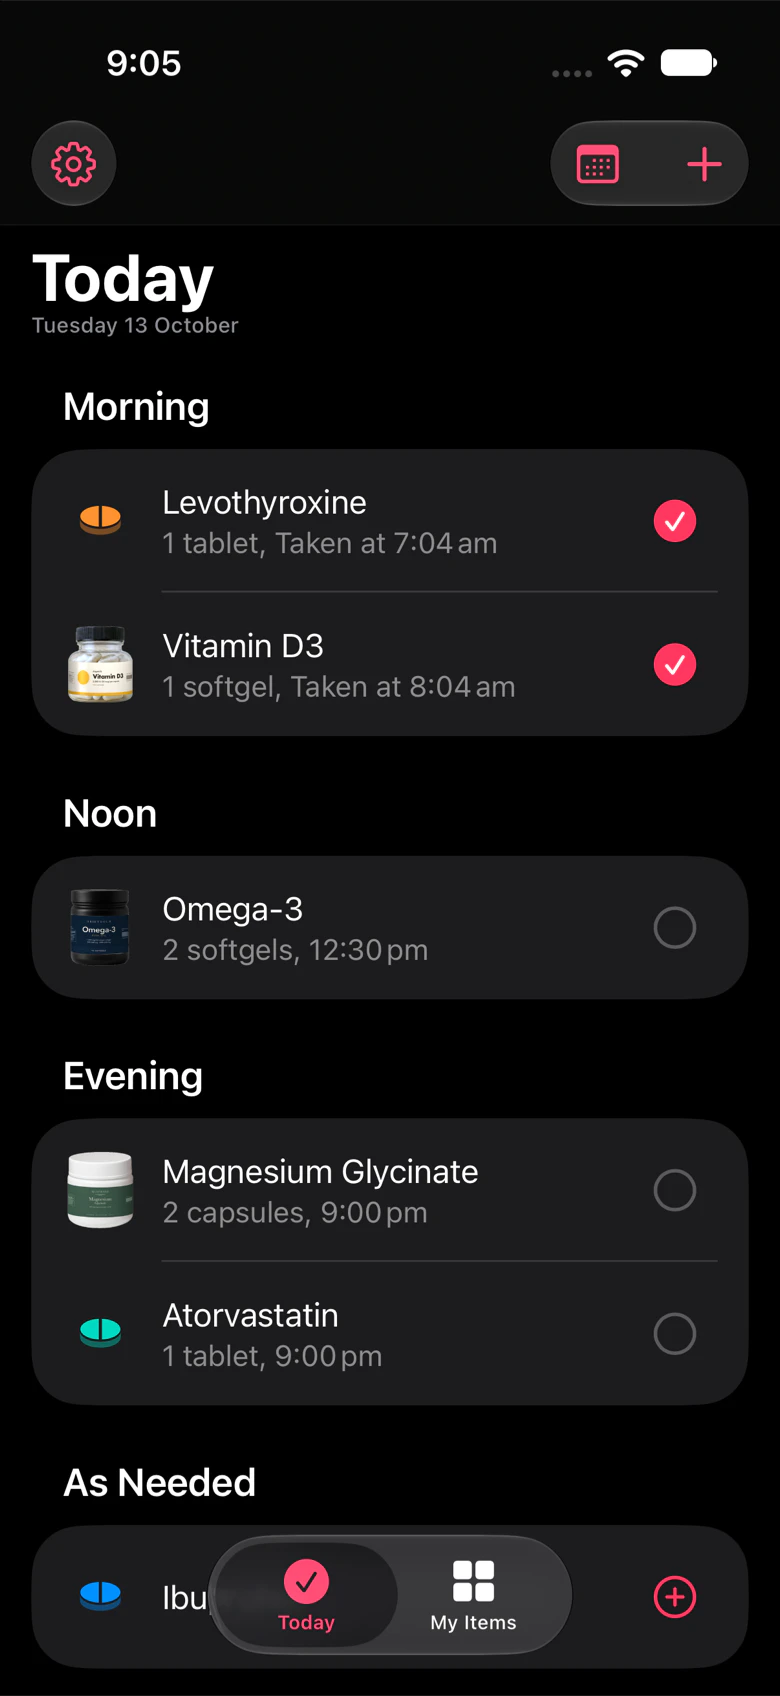
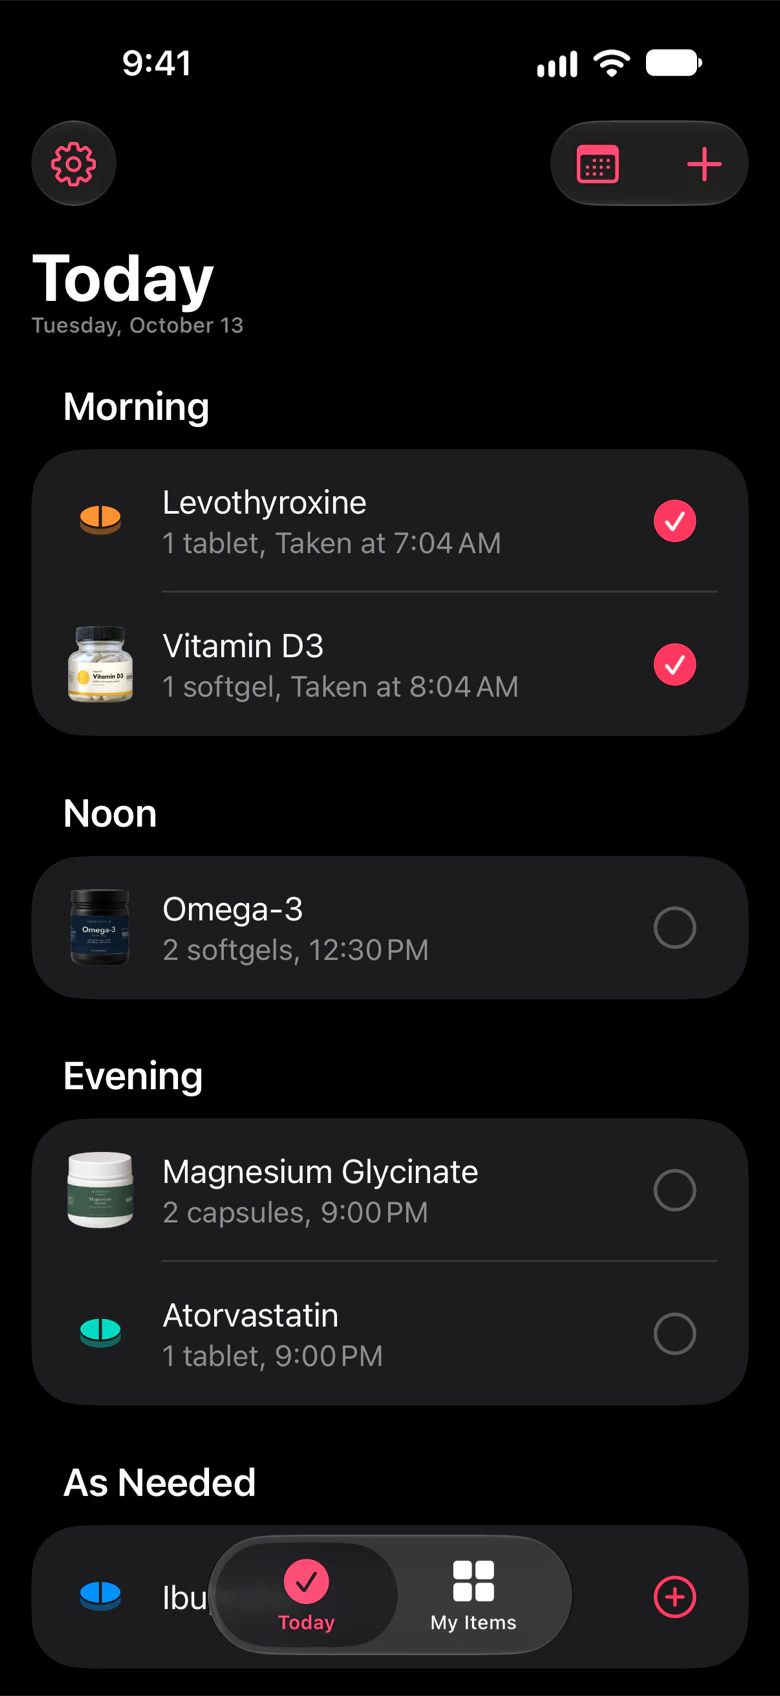
Use the dark captures of Today and History for the dark README pictures
The dark hero showed 9:05 and a day-month date, and the dark History card showed a light phone.
site/social.py now reads shots/today-dark-en.webp and shots/history-dark-en.webp.

diff --git a/site/social.py b/site/social.py
@@ -141,15 +141,17 @@ def card(code, size, extra="", dark=False):
 
 def feature(shot, dark):
     """A block of the home page on a card. The dark tokens are the dark block of style.css.
-    History has no capture in dark mode, so the dark card shows the light phone."""
+    The dark History card shows the capture of History in dark mode."""
     tokens = ""
+    block = build.stage("en", shot).replace('src="/', 'src="')
     if dark:
+        block = block.replace("shots/history-en.webp", "shots/history-dark-en.webp")
         css = (SITE / "style.css").read_text("utf-8")
         tokens = ":root {" + re.search(r"prefers-color-scheme: dark\) \{\s*:root \{(.*?)\}", css, re.S).group(1) + "}"
     return FEATURE.format(tokens=tokens, width=FEATURE_SIZE[0], height=FEATURE_SIZE[1],
                           background="#161618" if dark else "#F5F5F7",
                           ring="rgba(255, 255, 255, 0.08)" if dark else "transparent",
-                          block=build.stage("en", shot).replace('src="/', 'src="'))
+                          block=block)
 
 
 def main():

diff --git a/site/README.md b/site/README.md
@@ -130,7 +130,7 @@ The command needs Google Chrome on macOS. It draws each card as an HTML page wit
 - `og-github.png`: 1280 x 640 px, the same design in English, for the social preview of the GitHub repository. Upload it by hand in the settings of the repository. The site does not serve it.
 - The files are PNG, because X, Facebook, LinkedIn, Slack, and iMessage all read PNG, and each file is under 300 KB.
 - A card has the icon, the name, the headline of the home page, and the top of the Today screen. It has no App Store badge and no "Download", so it stays true before and after the release.
-- The command also writes the pictures of the repository README to `docs/images/`: `hero.png`, `reminders.png`, and `history.png`, and a `-dark` file of each for the dark theme of GitHub. The feature pictures are the blocks of the home page on a card. The dark hero shows `shots/today-dark-en.webp`, a capture of Today in dark mode at 780 px width. History has no capture in dark mode yet, so its dark card shows the light phone. The site does not serve the dark capture.
+- The command also writes the pictures of the repository README to `docs/images/`: `hero.png`, `reminders.png`, and `history.png`, and a `-dark` file of each for the dark theme of GitHub. The feature pictures are the blocks of the home page on a card. The dark hero shows `shots/today-dark-en.webp`, and the dark History card shows `shots/history-dark-en.webp`. They are captures of the app in dark mode at 780 px width, made from a 1206 x 2622 capture with `sips --resampleWidth 780` and `cwebp -q 90 -sharp_yuv`. The site does not serve the dark captures.
 - Platforms keep a card for days. After a change, ask for a new read in the X Card Validator, the Facebook Sharing Debugger, and the LinkedIn Post Inspector.
 
 ## Deploy
